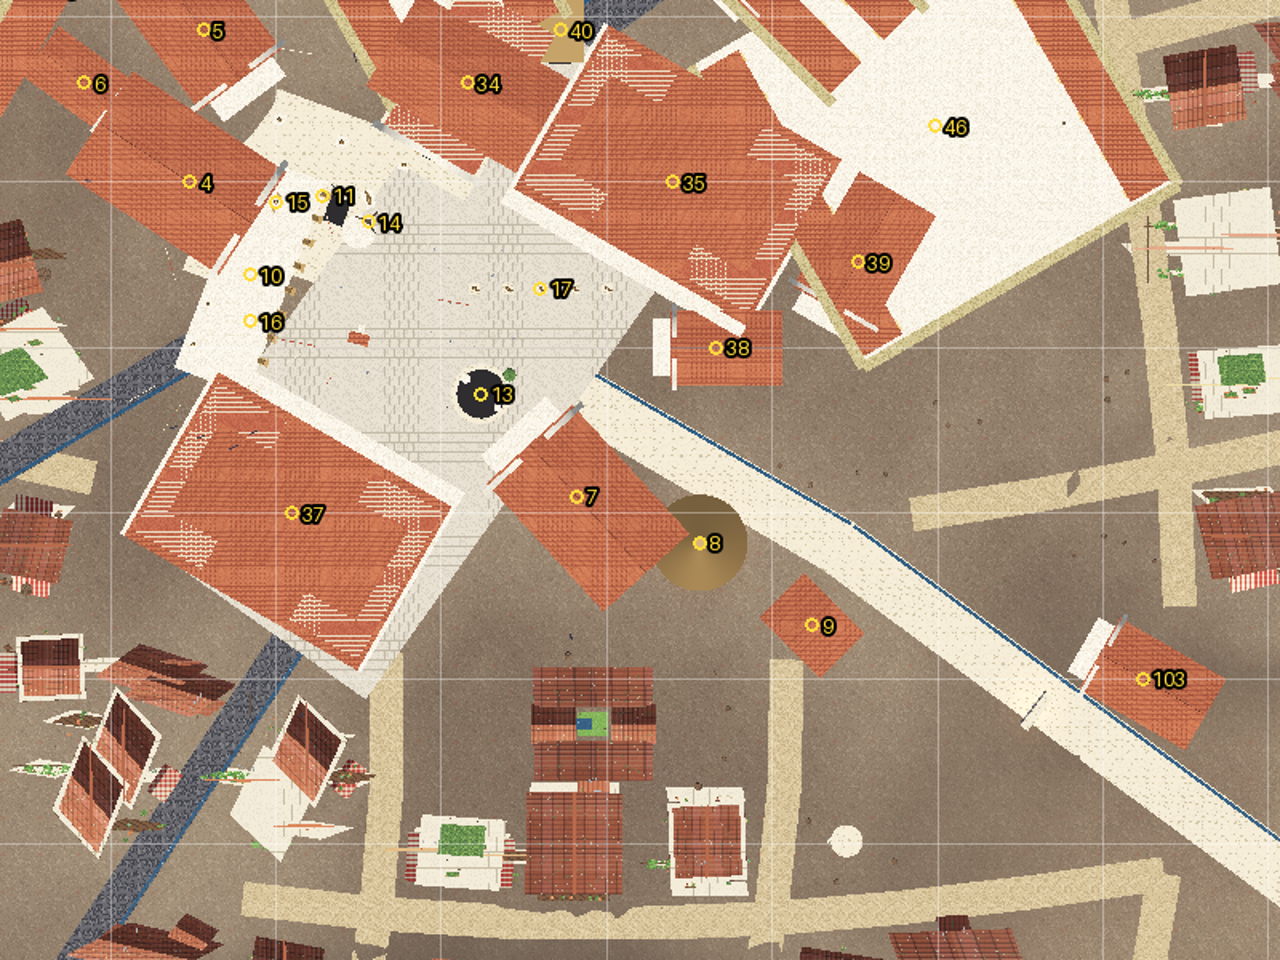
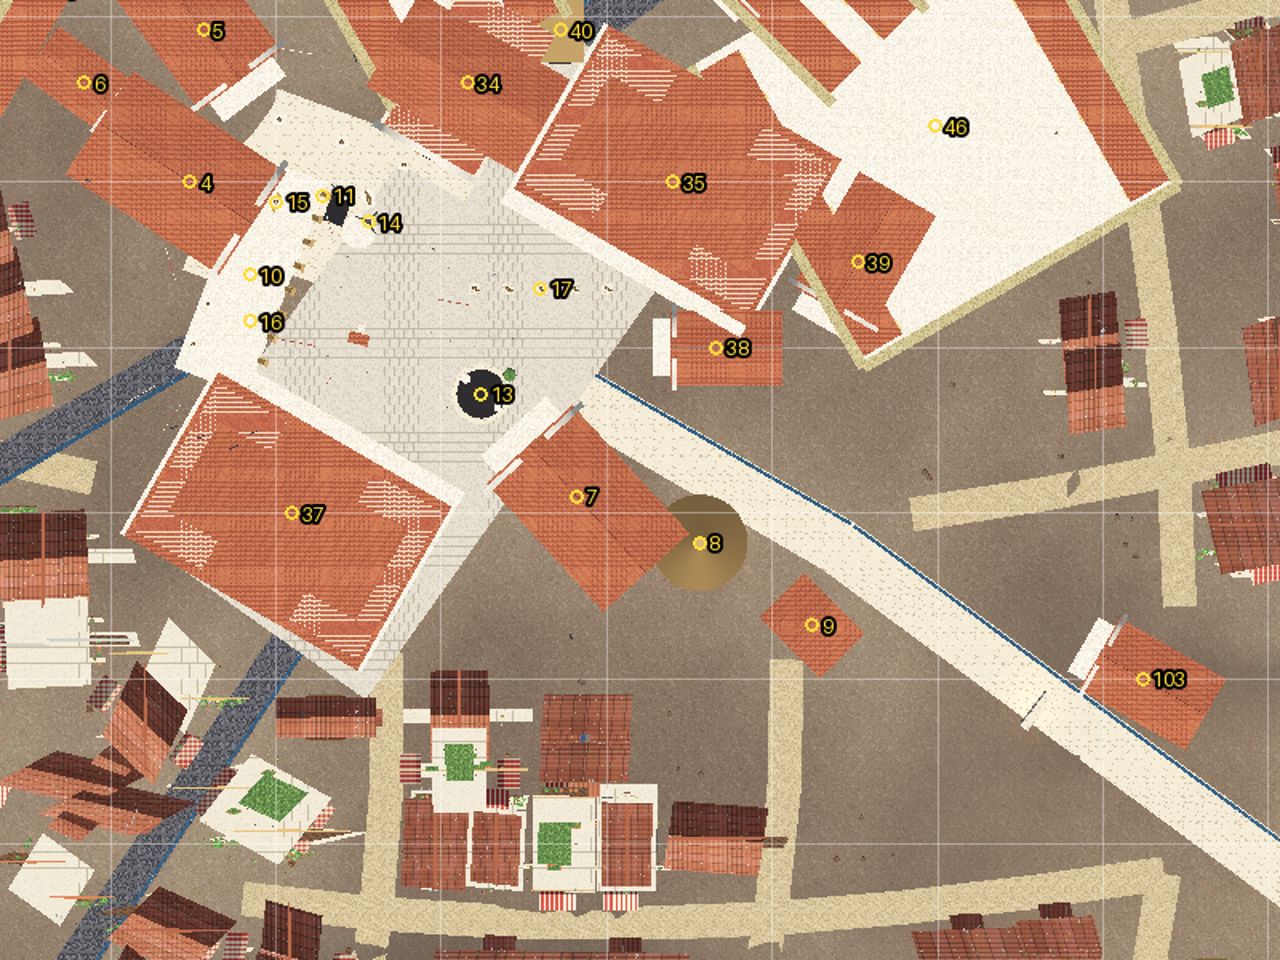
The placement pass as the review asked: whole streets lined by arc length, boxes and bands by bin, real counts guarded
Answers the review of 2af08f6, finding by finding:
- a box is tested against every band along its whole length (_box_on_road walks the part of
  each nearby street, lane or corridor within the box's reach), so a lane's mouth is never
  built over; the audit uses the same test
- the boxes and the bands are kept by 16 m bin (_register, _near, _set_bands, _bands_near)
  and the shrines' roads are mapped once; the AD 150 city builds in 10 s (was 43 s)
- every band stores half + 3 (streams and corridors too), so no band is under-read
- the keep list is built beside keep_off, not by mutating it: lanes and groves are as they were
- the streets and lanes are lined whole, by arc length along each polyline (the lanes are
  polylines of 13 m stretches, which the stretch-by-stretch pass could never build on); a
  house is narrowed before a lane's mouth, or made shallower, its front always at the kerb,
  and the gap between neighbours is 0 to 1.2 m with no margin, so two in three houses have a
  neighbour within a pace and a half; the grid loop no longer snaps to kerbs, and its dead
  `placed` and `lined` bookkeeping is gone
- the farm plot tests the widened box before taking the second cell
- the lining pass leaves a little square with a fountain now and then, and a stall on the
  kerb where no house fits (never two within thirty paces); a basin slides along the street to
  the nearest house front and takes a stall's place
[…]

diff --git a/docs/rome-city.md b/docs/rome-city.md
@@ -114,16 +114,22 @@ Decided with BB1 (2026-09-28):
     plaster with a bench by the door, a lean-to and a woodpile; the houses of the rich are drafted
     stucco over a painted dado, with a porch. Cats sit by the house fronts (`urbs_town._cats`).
   - The houses of the rich stand round courtyard gardens with a lawn, two trees and a pool.
-  - **Nothing is built into anything** (`_obbs`, `_bands`, `_keep`; `_overlaps`, `_corners_clear`,
-    `_in_obb`, `_on_road`): every house, plot and ruin is a box on the ground, tested against every
-    box already built by the separating-axis test, and against the streets, lanes and corridors
-    and the monuments' and tombs' ground at its four corners. The streets and lanes are lined
-    first, house against house along both sides of every stretch, each with its front a step
-    from the kerb; then the blocks between take what room is left, shrinking to fit or not built.
-    Every tree, bush and tuft is culled if it would stand in a house, a street or under a pergola
-    (the trees planted in a plot's own garden, ruin, field or roof are marked and kept). Basins
-    stand only against a house front, shrines only on a corner pavement, fountains and stalls
-    only in the open. `tools/audit_rome.gd` counts what is built into what; every count is zero.
+  - **Nothing is built into anything** (`_obbs`, `_bands`, `_keep`, kept by 16 m bin; `_overlaps`,
+    `_box_on_road`, `_corners_clear`, `_in_obb`, `_on_road`): every house, plot and ruin is a box on
+    the ground, tested against every box near it by the separating-axis test, and against every
+    street, lane and corridor near it along the band's whole length (so a lane's mouth is never
+    built over), and against the monuments' and tombs' ground at its corners and inside it. The
+    streets and lanes are lined first, each walked whole by arc length, house against house
+    along both sides (a house narrowed to fit before a lane's mouth, or made shallower, its
+    front always a step from the kerb; two in three have a neighbour within a pace and a half);
+    now and then the line leaves a little square with a fountain, and where no house fits a
+    stall stands on the kerb (never two within thirty paces). The blocks between take what room
+    is left, shrinking to fit or not built. Every tree, bush and tuft is culled if it would stand
+    in a house, a street or under a pergola (the trees planted in a plot's own garden, ruin,
+    field or roof are marked and kept). Basins stand on the pavement against a house front
+    (slid along the street to the nearest one, and taking a stall's place), shrines on a corner
+    pavement clear of every lane. `tools/audit_rome.gd` counts what is built into what; every
+    count is zero in 280 BC and AD 150, and the whole city builds in about ten seconds.
     The monuments of the Forum's cluster (city.json) were spaced and sized so no two solid
     buildings stand in one another: the Basilica Aemilia east of the Senate House, Janus's
     shrine at the Argiletum's mouth, the Carcer and Vespasian's temple at the Capitol's foot,
